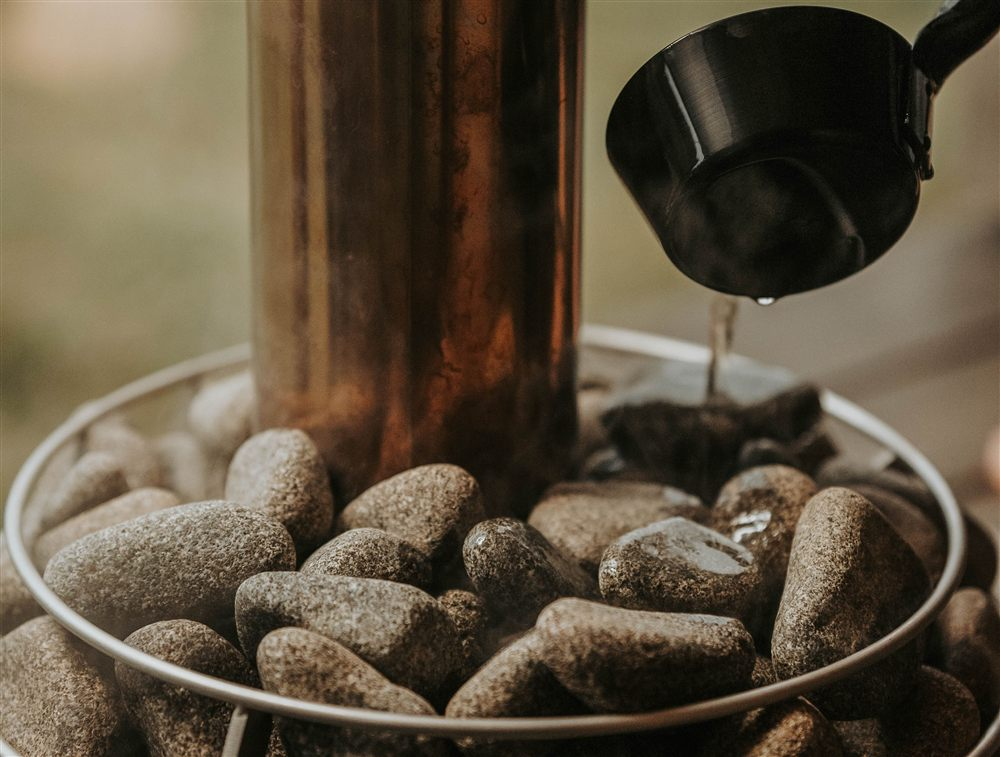
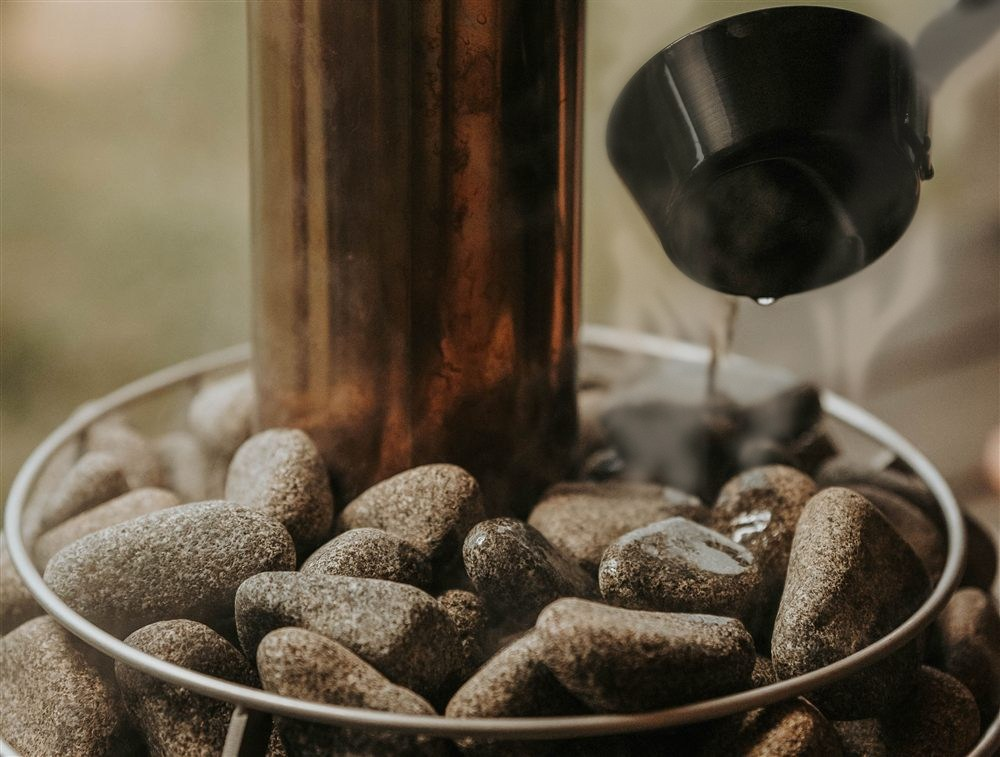
Landing: add soft steam to the Loyly sauna photo
Low-contrast wavy wisps rise to the right of the pipe, starting a little above the stones, with the green background showing between them.

diff --git a/.docs/planning-artifacts/ux-designs/ux-booking-platform-2026-11-05/mockups/directions-3.html b/.docs/planning-artifacts/ux-designs/ux-booking-platform-2026-11-05/mockups/directions-3.html
@@ -141,7 +141,7 @@ h5{font-size:24px;line-height:1.25;font-weight:300}
 <img class="photo hero" src="images/hero-sauna-by-the-water.jpg" alt="A dark wooden sauna with a railing on its roof, standing in calm water, with the low sun glowing softly over the open sea and golden light on the surface.">
 <p class="desc">Löyly is the steam that rises when water meets the hot stones. At Saunalöyly you come to Finnish saunas by the sea, where you can swim all year round.</p>
 <section class="before" id="before-you-come"><h4>Before you come</h4><div class="cols"><div class="bg"><h5>What to bring</h5><ul><li>Swimwear to wear at the venue.</li><li>Two towels. One to sit on and one to dry yourself with.</li><li>A bottle for water.</li></ul></div><div class="bg"><h5>Safety</h5><ul><li>Drink enough water to avoid dehydration.</li><li>Alcohol is not allowed at the venue.</li><li>Keep rounds in the sauna to 10 minutes at most, and leave if you feel unwell.</li><li>Ask the others before throwing water on the stones.</li><li>Swim preferably with others, and never ice-bathe alone.</li><li>Children must be supervised by an adult.</li></ul></div><div class="bg"><h5>Practical</h5><ul><li>Changing time is part of your session.</li><li>There is a wardrobe for your clothes.</li><li>You can swim in the sea all year round.</li><li>There are showers.</li><li>There is a tap with drinking water.</li></ul></div></div><img class="photo strip" src="images/before-towels.jpg" alt="A rolled grey towel beside a beige towel in a cork tray."></section>
-<section class="saunas"><div class="tx"><h4>The saunas</h4><p>A booking gives you seats in the shared saunas open during your session. On site you can move freely between them.</p></div><div class="rooms"><div class="room"><img class="photo" src="images/sauna-rauha-door.jpg" alt="A glass sauna door with a long pale wooden handle, and a stove filled with grey stones seen through it."><h5>Rauha</h5><p class="meta">Holds 7</p><p>Rauha means peace.</p></div><div class="room"><img class="photo" src="images/sauna-loyly-kiuas.jpg" alt="Water dripping from a black ladle onto grey stones heaped around a sauna stove's chimney."><h5>Löyly</h5><p class="meta">Holds 10</p><p>Named for the steam from the stones, like the venue.</p></div><div class="room"><img class="photo" src="images/sauna-kajo-kiulu.jpg" alt="A black sauna bucket with a curved wooden handle and a wooden-handled ladle, on a pale wooden bench."><h5>Kajo</h5><p class="meta">Holds 12</p><p>Kajo means a soft glow of light.</p></div><div class="room"><img class="photo" src="images/sauna-lumo-lauteet.jpg" alt="Empty wooden sauna benches along a wall, lit softly from behind the backrest."><h5>Lumo</h5><p class="meta">Holds 15</p><p>Lumo means enchantment.</p></div></div></section>
+<section class="saunas"><div class="tx"><h4>The saunas</h4><p>A booking gives you seats in the shared saunas open during your session. On site you can move freely between them.</p></div><div class="rooms"><div class="room"><img class="photo" src="images/sauna-rauha-door.jpg" alt="A glass sauna door with a long pale wooden handle, and a stove filled with grey stones seen through it."><h5>Rauha</h5><p class="meta">Holds 7</p><p>Rauha means peace.</p></div><div class="room"><img class="photo" src="images/sauna-loyly-kiuas.jpg" alt="Water dripping from a black ladle onto grey stones heaped around a sauna stove's chimney, with soft steam rising."><h5>Löyly</h5><p class="meta">Holds 10</p><p>Named for the steam from the stones, like the venue.</p></div><div class="room"><img class="photo" src="images/sauna-kajo-kiulu.jpg" alt="A black sauna bucket with a curved wooden handle and a wooden-handled ladle, on a pale wooden bench."><h5>Kajo</h5><p class="meta">Holds 12</p><p>Kajo means a soft glow of light.</p></div><div class="room"><img class="photo" src="images/sauna-lumo-lauteet.jpg" alt="Empty wooden sauna benches along a wall, lit softly from behind the backrest."><h5>Lumo</h5><p class="meta">Holds 15</p><p>Lumo means enchantment.</p></div></div></section>
 <img class="photo band" src="images/band-loyly-steam.jpg" alt="Soft clouds of warm, brown-tinted steam drifting across the frame.">
 <section class="find"><h4>Find us</h4><p>Badstubrygga 4<br>0000 Havbukta<br>+47 01 23 45 67<br>hello@saunaloyly.example</p><p><span class="lnk">Terms</span><br><span class="lnk">Privacy notice</span></p></section>
 </div><div class="fold"><span>First view ends here at 1366 × 768</span></div></div></figure><p class="flabel" id="book">Book seats page</p><figure class="frame"><div class="chrome"><span class="dots"><i></i><i></i><i></i></span><span class="url"></span></div><div class="vp bookp"><div class="main bk"><h3>Book seats</h3><div class="two">

diff --git a/ASSETS.md b/ASSETS.md
@@ -13,7 +13,7 @@ They are in `.docs/planning-artifacts/ux-designs/ux-booking-platform-2026-11-05/
 | `band-loyly-steam.jpg` | Landing, band | ["Relaxing in a Steamy Modern Sauna"](https://www.pexels.com/photo/relaxing-in-a-steamy-modern-sauna-31092896/) by HUUM │sauna heaters, Pexels licence, cropped to the steam so that the person and the heater are left out, colours and contrast adjusted to match the sauna photos | Soft clouds of warm, brown-tinted steam drifting across the frame. |
 | `sauna-rauha-door.jpg` | Landing, Rauha | ["Modern Indoor Sauna with Wooden Panels"](https://www.pexels.com/photo/modern-indoor-sauna-with-wooden-panels-36420270/) by HUUM │sauna heaters, Pexels licence, cropped, brand tag on the stove retouched out, colours and contrast adjusted to match the other sauna photos | A glass sauna door with a long pale wooden handle, and a stove filled with grey stones seen through it. |
 | `sauna-kajo-kiulu.jpg` | Landing, Kajo | ["Modern Indoor Sauna with Wooden Panels"](https://www.pexels.com/photo/modern-indoor-sauna-with-wooden-panels-36420272/) by HUUM │sauna heaters, Pexels licence, cropped, brand name on the bucket retouched out, soft warm glow added | A black sauna bucket with a curved wooden handle and a wooden-handled ladle, on a pale wooden bench. |
-| `sauna-loyly-kiuas.jpg` | Landing, Löyly | ["Pouring Liquid on Stones near Windows"](https://www.pexels.com/photo/pouring-liquid-on-stones-near-windows-18285439/) by HUUM │sauna heaters, Pexels licence, cropped | Water dripping from a black ladle onto grey stones heaped around a sauna stove's chimney. |
+| `sauna-loyly-kiuas.jpg` | Landing, Löyly | ["Pouring Liquid on Stones near Windows"](https://www.pexels.com/photo/pouring-liquid-on-stones-near-windows-18285439/) by HUUM │sauna heaters, Pexels licence, cropped, soft steam added digitally | Water dripping from a black ladle onto grey stones heaped around a sauna stove's chimney, with soft steam rising. |
 | `sauna-lumo-lauteet.jpg` | Landing, Lumo | ["Modern Nordic Sauna Interior with Wooden Design"](https://www.pexels.com/photo/modern-nordic-sauna-interior-with-wooden-design-36077597/) by HUUM │sauna heaters, Pexels licence, cropped to the benches so that the heater and its brand name are left out, colours and contrast adjusted to match the other sauna photos | Empty wooden sauna benches along a wall, lit softly from behind the backrest. |
 | `hero-sauna-by-the-water.jpg` | Landing, hero | ["Oslo badsteforening sauna at sunset"](https://unsplash.com/photos/DusOaeCX_ss) by Eirik Skarstein, Unsplash licence, cropped to landscape, the organisation's logo and name, the SAUNA sign, a sign on a building, a sticker, a notice, a life buoy, two poles, a tall building with its reflection, the crane and buildings behind the railing, a far building, the roof beam at the left with the structure under it, the mesh and fittings on the railing, the buildings on the far shore with their reflections and a lens flare retouched out, the side panel, railing, sky and sea extended where the beam stood, wall boards rebuilt from a clean part of the photo, sun's glow and its light on the water reworked, colours and contrast adjusted to match the sauna photos | A dark wooden sauna with a railing on its roof, standing in calm water, with the low sun glowing softly over the open sea and golden light on the surface. |
 | `before-towels.jpg` | Landing, Before you come | ["Brown Bottle on Towels"](https://www.pexels.com/photo/brown-bottle-on-towels-7795756/) by Alesia Kozik, Pexels licence, rotated and cropped so that the bottle is left out, colours and contrast adjusted to match the sauna photos | A rolled grey towel beside a beige towel in a cork tray. |

diff --git a/.docs/planning-artifacts/ux-designs/ux-booking-platform-2026-11-05/.memlog.md b/.docs/planning-artifacts/ux-designs/ux-booking-platform-2026-11-05/.memlog.md
@@ -82,3 +82,4 @@ updated: 2026-11-09T15:47
 - (decision by Lisa) Imagery wording (2026-11-09): the hero differs from the other images. PRD §6 and DESIGN.md now say warm, soft light with water in view outside, and dim, indirect light inside.
 - (decision by Lisa) Hero image (2026-11-09): the railing is cleaned. The raised edge left by the SAUNA sign, the uneven upright and the noise at its top left are redrawn to the railing's straight lines.
 - (decision by Lisa) Hero image (2026-11-09): the sun's reflection is a narrower, pale gold path from the sea line straight below the sun, made from the photo's own ripples. The orange patch against the wall is toned to the colour of the open water.
+- (decision by Lisa) Löyly image (2026-11-09): soft steam is added digitally, rising from the stones and thickest where the water lands. The alt text and ASSETS.md say so. At Lisa's request the steam is only to the right of the pipe, in separate wavy wisps with the green background showing between them. It starts a little above the stones, is low in contrast and not white, and some also rises above the wet stones.
